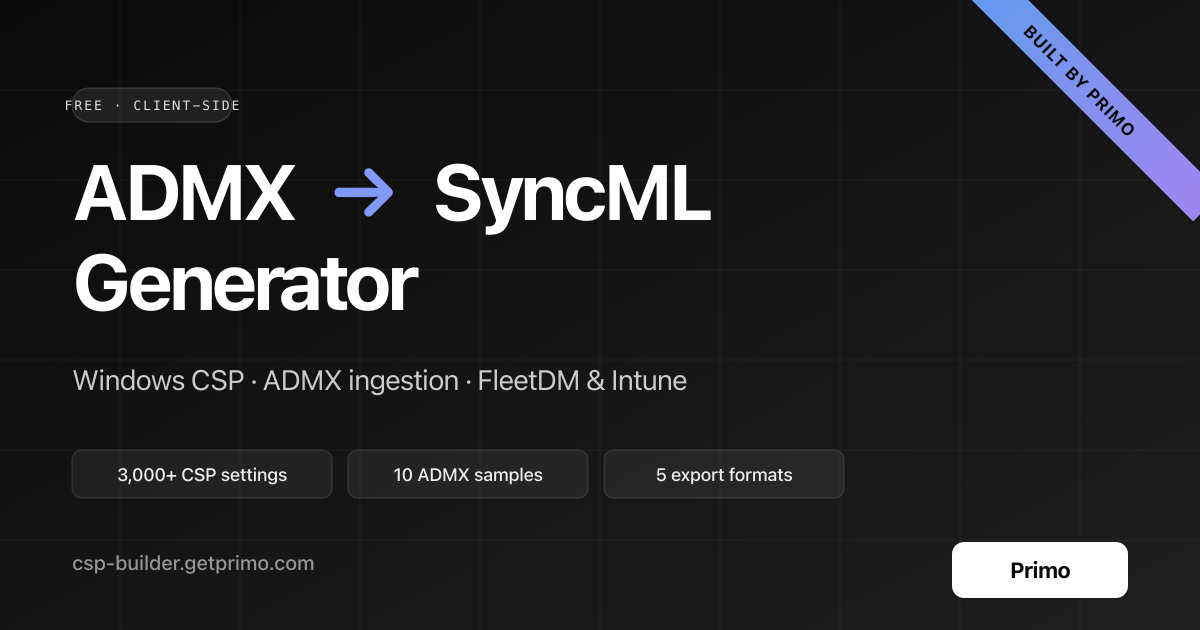
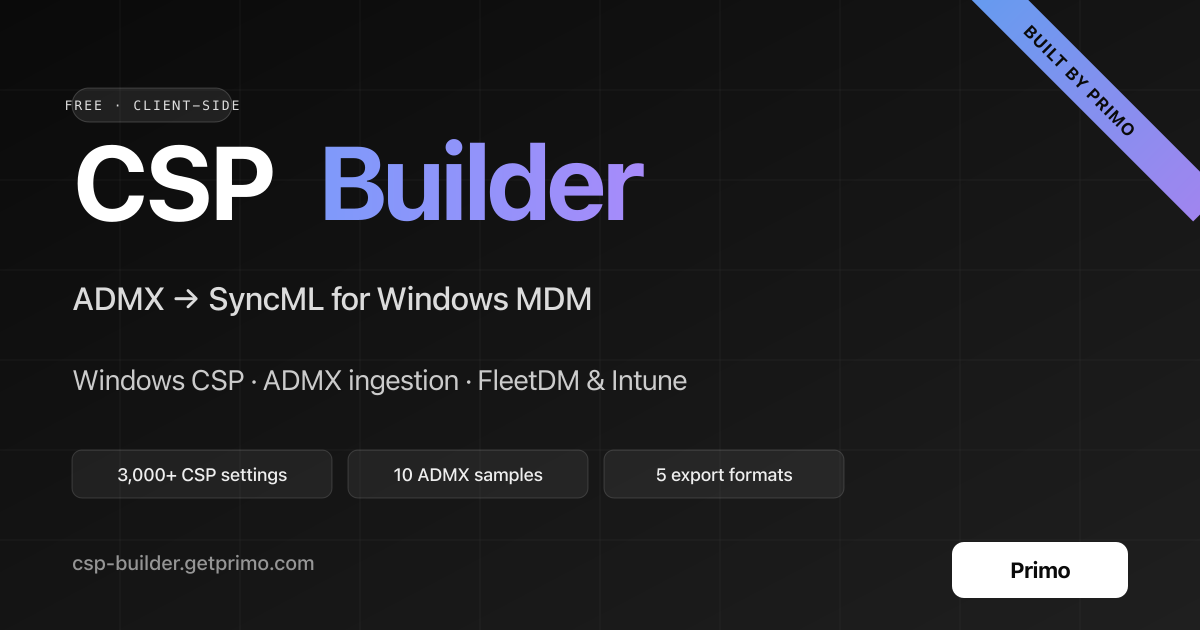
Rename product to "CSP Builder"
Renames the main product title from "ADMX → SyncML Builder" to "CSP Builder"
across the UI (h1 header, HTML title, OG/Twitter/JSON-LD metadata, OG image)
and docs. SEO keyword strings keep "ADMX to SyncML" etc. for search intent.

Changed region(s): [[0.0617, 0.2111, 0.6167, 0.3921], [0.0617, 0.3921, 0.4933, 0.5127]]

diff --git a/index.html b/index.html
@@ -4,7 +4,7 @@
     <meta charset="UTF-8" />
     <meta name="viewport" content="width=device-width, initial-scale=1.0" />
 
-    <title>ADMX to SyncML Generator · Free Windows CSP Builder for FleetDM & Intune — Primo</title>
+    <title>CSP Builder · Free Windows ADMX to SyncML Generator for FleetDM & Intune — Primo</title>
     <meta
       name="description"
       content="Free online generator to convert ADMX/ADML templates and the Microsoft Policy CSP catalog (3000+ settings) into ready-to-ship SyncML payloads for FleetDM, Intune, and any MDM. Built by Primo."
@@ -23,7 +23,7 @@
     <meta property="og:url" content="https://csp-builder.getprimo.com/" />
     <meta
       property="og:title"
-      content="ADMX to SyncML Generator · Free Windows CSP Builder for FleetDM & Intune"
+      content="CSP Builder · Free Windows ADMX to SyncML Generator for FleetDM & Intune"
     />
     <meta
       property="og:description"
@@ -34,14 +34,14 @@
     <meta property="og:image:height" content="630" />
     <meta
       property="og:image:alt"
-      content="ADMX to SyncML Generator — built by Primo"
+      content="CSP Builder — built by Primo"
     />
 
     <!-- Twitter -->
     <meta name="twitter:card" content="summary_large_image" />
     <meta
       name="twitter:title"
-      content="ADMX → SyncML Generator · CSP Builder for FleetDM & Intune"
+      content="CSP Builder · ADMX to SyncML for FleetDM & Intune"
     />
     <meta
       name="twitter:description"
@@ -55,7 +55,7 @@
       {
         "@context": "https://schema.org",
         "@type": "SoftwareApplication",
-        "name": "ADMX to SyncML Builder",
+        "name": "CSP Builder",
         "applicationCategory": "DeveloperApplication",
         "operatingSystem": "Web Browser",
         "description": "Free online generator to convert ADMX/ADML templates and the Microsoft Policy CSP catalog into SyncML payloads for FleetDM, Intune, and any MDM.",

diff --git a/src/App.tsx b/src/App.tsx
@@ -13,7 +13,7 @@ function App() {
       <header className="border-b">
         <div className="container py-5">
           <h1 className="text-2xl font-semibold tracking-tight">
-            ADMX → SyncML Builder
+            CSP Builder
           </h1>
           <p className="mt-1 max-w-3xl text-sm text-muted-foreground">
             Free online generator to turn Windows ADMX/ADML templates and the

diff --git a/README.md b/README.md
@@ -1,6 +1,6 @@
 <div align="center">
 
-# ADMX → SyncML Builder
+# CSP Builder
 
 **Free online generator to convert Windows ADMX/ADML templates and the Microsoft Policy CSP catalog into ready-to-ship SyncML payloads for FleetDM, Intune, and any MDM.**
 
@@ -10,7 +10,7 @@
 
 [**🚀 Open the tool**](https://csp-builder.getprimo.com?utm_source=github&utm_medium=readme&utm_campaign=csp_builder&utm_content=hero_cta) · [**Built by Primo — Modern MDM →**](https://www.getprimo.com/product-page/mdm?utm_source=github&utm_medium=readme&utm_campaign=csp_builder&utm_content=hero_pitch)
 
-![ADMX to SyncML Generator — built by Primo](public/og-image.png)
+![CSP Builder — built by Primo](public/og-image.png)
 
 </div>
 

diff --git a/.claude/knowledge.md b/.claude/knowledge.md
@@ -1,4 +1,6 @@
-# ADMX → SyncML Builder — Project Handoff
+# CSP Builder — Project Handoff
+
+(Formerly "ADMX → SyncML Builder" — renamed to CSP Builder.)
 
 ## What it is
 
